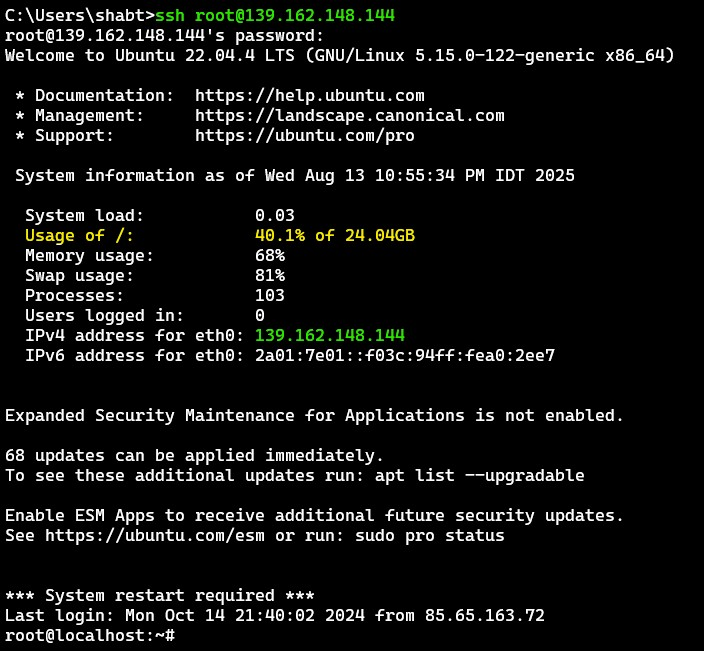
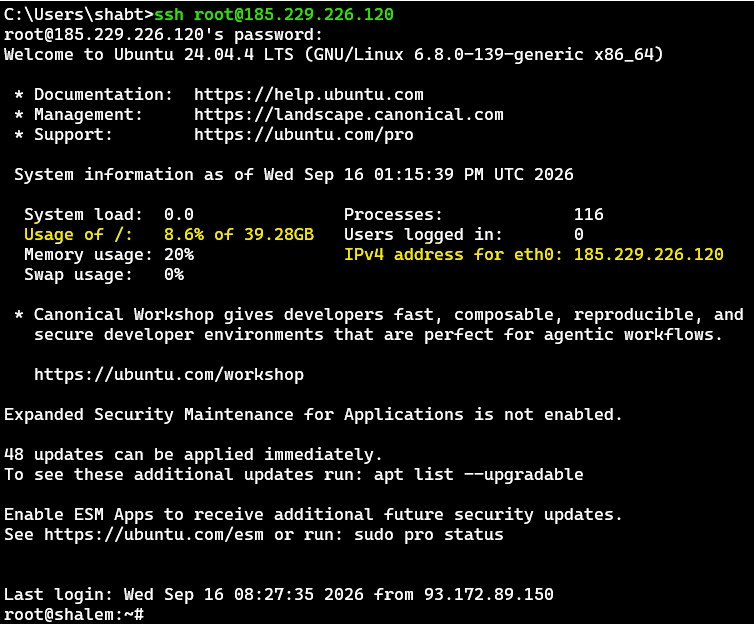
02-9/- 17:48

Changed region(s): [[0.0, 0.0, 1.0, 1.0]]

diff --git a/src/pages/DevOps/DevOpsComponents/D_LinuxPkg/B_ConnectServerSshSections/O1_ConnectWithSsh.tsx b/src/pages/DevOps/DevOpsComponents/D_LinuxPkg/B_ConnectServerSshSections/O1_ConnectWithSsh.tsx
@@ -3,7 +3,7 @@
 connect_to_server_ssh --> (DEVOPS)(LINUX)(connect with SSH)
 */
 import { IMG, MainChildArea } from "../../../../../components";
-import { SpanBlue, SpanGreen } from "../../../../../components/Highlight";
+import { Redtext, SpanGreen, SpanYellow } from "../../../../../components/Highlight";
 import linode_5 from "../../../../../assets/linode_5.jpg";
 import LinuxHighlight from "../../../../../components/Highlight/LinuxHighlight";
 
@@ -11,21 +11,23 @@ const O1_ConnectWithSsh = ({ anchor }: { anchor: string }) => {
   return (
     <MainChildArea anchor={anchor}>
       <div>
-        Once we created a server , now lets see how we can connect to it using <SpanBlue>SSH</SpanBlue> (<SpanGreen>Secure Shell protocol</SpanGreen>
+        Once we created a server , now lets see how we can connect to it using <Redtext>SSH</Redtext> (<SpanGreen>Secure Shell protocol</SpanGreen>
         ).
       </div>
       <ul className="my-4 ml-8 list-decimal">
-        <li className="my-1">Open admin CMD on windows</li>
-        <li className="my-1">Take the IP from linode server , type command</li>
+        <li className="my-1">
+          Take the server IP from <SpanYellow>KAMATERA</SpanYellow> Web site
+        </li>
+        <li className="my-1">Open CMD on windows, then type command</li>
         <LinuxHighlight bashCode={ssh_connect}></LinuxHighlight>
         <li className="my-1">
-          When I setup the linode , the user & password for root are as follows. thus I need to type the password below
+          When I setup create LINUX server on <SpanYellow>KAMATERA</SpanYellow> , these are username and password :
           <ul className="my-4 ml-8 list-disc">
             <li className="my-1">
-              username : <SpanBlue>root</SpanBlue>
+              username : <Redtext>root</Redtext>
             </li>
             <li className="my-1">
-              Password : <SpanBlue>Zaq1zaq1!zaq1</SpanBlue>
+              Password : <Redtext>shalem</Redtext>
             </li>
           </ul>
         </li>
@@ -36,4 +38,4 @@ const O1_ConnectWithSsh = ({ anchor }: { anchor: string }) => {
 };
 export default O1_ConnectWithSsh;
 
-const ssh_connect = `ssh root@139.162.148.144`;
+const ssh_connect = `ssh root@185.229.226.120`;

diff --git a/src/pages/DevOps/DevOpsComponents/D_LinuxPkg/A_CreateServerSections/O1_CreateLinodeServer.tsx b/src/pages/DevOps/DevOpsComponents/D_LinuxPkg/A_CreateServerSections/O1_CreateLinodeServer.tsx
@@ -2,16 +2,47 @@
 /devops/linux-server/create-server#create_linode_server
 create_linode_server --> (DEVOPS)(LINUX)(create server server)
 */
-import { IMG, MainChildArea } from "../../../../../components";
+import { IMG, Li, MainChildArea, ULdisc } from "../../../../../components";
 import linode_1 from "../../../../../assets/linode_1.jpg";
 import linode_2 from "../../../../../assets/linode_2.jpg";
 import linode_3 from "../../../../../assets/linode_3.jpg";
 import linode_4 from "../../../../../assets/linode_4.jpg";
-import { DivDoubleBorder, Span, SpanBlue, SpanGreen } from "../../../../../components/Highlight";
+import { DivDoubleBorder, Redtext, Span, SpanBlue, SpanGreen, SpanYellow } from "../../../../../components/Highlight";
 
 const O1_CreateLinodeServer = ({ anchor }: { anchor: string }) => {
   return (
     <MainChildArea anchor={anchor}>
+      <ULdisc>
+        <Li>
+          <SpanYellow>Linode</SpanYellow> is now know as <SpanYellow>Akami</SpanYellow>
+        </Li>
+        <Li>
+          Go to{" "}
+          <a className="tracking-wider text-blue-500" href="https://www.akamai.com/" target="_blank">
+            {" "}
+            https://www.akamai.com/
+          </a>
+        </Li>
+        <Li>
+          to Login use this url{" "}
+          <a className="tracking-wider text-blue-500" href="https://login.linode.com/login?" target="_blank">
+            https://login.linode.com/login
+          </a>
+        </Li>
+      </ULdisc>
+
+      <DivDoubleBorder>Linode Login Username/Password</DivDoubleBorder>
+      <ULdisc>
+        <Li>
+          <SpanYellow>username</SpanYellow> - <Redtext>sshalem</Redtext>
+        </Li>
+        <Li>
+          <SpanYellow>password</SpanYellow> - <Redtext>aa77aa80</Redtext>
+        </Li>
+      </ULdisc>
+
+      <DivDoubleBorder>Create Server</DivDoubleBorder>
+
       <div>Follow the steps:</div>
       <IMG img_name={linode_1} />
       <DivDoubleBorder>

diff --git a/src/pages/DevOps/DevOpsComponents/D_LinuxPkg/A_CreateServerSections/O2_CreateKamateraServer.tsx b/src/pages/DevOps/DevOpsComponents/D_LinuxPkg/A_CreateServerSections/O2_CreateKamateraServer.tsx
@@ -1,0 +1,52 @@
+/*
+ 
+
+*/
+import { Li, MainChildArea, ULdisc } from "../../../../../components";
+import { DivDoubleBorder, Redtext, SpanYellow } from "../../../../../components/Highlight";
+
+const O2_CreateKamateraServer = ({ anchor }: { anchor: string }) => {
+  return (
+    <MainChildArea anchor={anchor}>
+      <ULdisc>
+        <Li>
+          <SpanYellow>Linode</SpanYellow> is now know as <SpanYellow>Akami</SpanYellow>
+        </Li>
+        <Li>
+          Go to{" "}
+          <a className="tracking-wider text-blue-500" href="https://www.kamatera.com/he/" target="_blank">
+            {" "}
+            https://www.kamatera.com/he/
+          </a>
+        </Li>
+        <Li>
+          to Login use this url{" "}
+          <a className="tracking-wider text-blue-500" href="https://console.kamatera.com/login" target="_blank">
+            https://console.kamatera.com/login
+          </a>
+        </Li>
+      </ULdisc>
+
+      <DivDoubleBorder>Kamatera Login Username/Password</DivDoubleBorder>
+      <ULdisc>
+        <Li>
+          <SpanYellow>username</SpanYellow> - <Redtext>shabtay.shalem@gmail.com</Redtext>
+        </Li>
+        <Li>
+          <SpanYellow>password</SpanYellow> - <Redtext>aa77aa80</Redtext>
+        </Li>
+      </ULdisc>
+
+      <DivDoubleBorder>config LINUX Server root Password</DivDoubleBorder>
+      <ULdisc>
+        <Li>
+          <SpanYellow>username</SpanYellow> - <Redtext>root</Redtext> by default is't <SpanYellow>root</SpanYellow>
+        </Li>
+        <Li>
+          <SpanYellow>password</SpanYellow> - <Redtext>shalem</Redtext>
+        </Li>
+      </ULdisc>
+    </MainChildArea>
+  );
+};
+export default O2_CreateKamateraServer;

diff --git a/src/pages/DevOps/DevOpsComponents/D_LinuxPkg/A_CreateServerSections/CreateServerMain.tsx b/src/pages/DevOps/DevOpsComponents/D_LinuxPkg/A_CreateServerSections/CreateServerMain.tsx
@@ -1,20 +1,20 @@
 import { useEffect, useRef, useState } from "react";
 import { ContentMenu, Loading } from "../../../../../components";
 import O1_CreateLinodeServer from "./O1_CreateLinodeServer";
-import O0_AkamiLinodeIntro from "./O0_AkamiLinodeIntro";
+import O2_CreateKamateraServer from "./O2_CreateKamateraServer";
 
 // ===========================================
 // ==     content menu (title name)         ==
 // ===========================================
 
-const o0_AkamiLinodeIntro = "Intro Akami/Linode";
-const create_linode_server = "create_linode_server";
+const o1_create_linode_server = "1. create Linode server";
+const o2_CreateKamateraServer = "2. create Kamatera server";
 
 // ===========================================
 // == Update anchorList with  content menu  ==
 // ===========================================
 
-const anchorList: string[] = [o0_AkamiLinodeIntro, create_linode_server];
+const anchorList: string[] = [o1_create_linode_server, o2_CreateKamateraServer];
 
 // ============================================
 // ============================================
@@ -67,8 +67,8 @@ const CreateServerMain = () => {
         ulRef={ulRef}
       />
       {/* End Contents */}
-      <O0_AkamiLinodeIntro anchor={o0_AkamiLinodeIntro} />
-      <O1_CreateLinodeServer anchor={create_linode_server} />
+      <O1_CreateLinodeServer anchor={o1_create_linode_server} />
+      <O2_CreateKamateraServer anchor={o2_CreateKamateraServer} />
       <div className="my-8 h-4">{/* {this div is only for dividing} */}</div>
     </section>
   );

diff --git a/src/pages/DevOps/DropDevOps/DropDownLinux.tsx b/src/pages/DevOps/DropDevOps/DropDownLinux.tsx
@@ -36,14 +36,14 @@ const DropDownLinux = () => {
 
   return (
     <section>
-      <SideDropDownTopic showList={showList} handleOpenList={handleOpenList} internalLink="/devops/linux-server" topicName="Linux (Linode Akami)" />
+      <SideDropDownTopic showList={showList} handleOpenList={handleOpenList} internalLink="/devops/linux-server" topicName="Linux server" />
 
       <div
         style={showList ? { height: `${listHeight}px` } : { height: "0px" }}
         className={`overflow-hidden bg-white transition-[height] duration-100 ease-in-out`}
         ref={divRef}
       >
-        <SideDropdownLink sideDropDownNavName="1. create linode server" internalLink="/devops/linux-server/create-server" />
+        <SideDropdownLink sideDropDownNavName="1. create server" internalLink="/devops/linux-server/create-server" />
         <SideDropdownLink sideDropDownNavName="2. connect with SSH" internalLink="/devops/linux-server/connect-with-ssh" />
         <SideDropdownLink sideDropDownNavName="3. connect with FileZilla" internalLink="/devops/linux-server/connect-with-filezilla" />
         <SideDropdownLink sideDropDownNavName="4. Linux server setup" internalLink="/devops/linux-server/setup-server" />

diff --git a/src/pages/DevOps/DevOpsComponents/D_LinuxPkg/B_ConnectServerSshSections/O2_IssueWithSshConnectionTimeout.tsx b/src/pages/DevOps/DevOpsComponents/D_LinuxPkg/B_ConnectServerSshSections/O2_IssueWithSshConnectionTimeout.tsx
@@ -3,15 +3,15 @@
 ssh_connection_timeout_issue --> (DEVOPS)(LINUX)(connect with SSH)
 */
 import { IMG, MainChildArea } from "../../../../../components";
-import { SpanBlue } from "../../../../../components/Highlight";
+import { SpanYellow } from "../../../../../components/Highlight";
 import linode_6 from "../../../../../assets/linode_6.jpg";
 
 const O2_IssueWithSshConnectionTimeout = ({ anchor }: { anchor: string }) => {
   return (
     <MainChildArea anchor={anchor}>
       <div>
-        When I tried to connect with <SpanBlue>SSH</SpanBlue> via home Lenovo laptop (from Media Tech) to Linode server, I got connection refues on
-        port 22
+        When I tried to connect with <SpanYellow>SSH</SpanYellow> via home Lenovo laptop (from Media Tech) to Linode server, I got connection refues
+        on port 22
       </div>
       <IMG img_name={linode_6}></IMG>
       Maybe this issue occured on Meia Texh because , it is block by thier firewall

diff --git a/src/pages/DevOps/DevOpsComponents/D_LinuxPkg/B_ConnectServerSshSections/ConnectToServerSshMain.tsx b/src/pages/DevOps/DevOpsComponents/D_LinuxPkg/B_ConnectServerSshSections/ConnectToServerSshMain.tsx
@@ -7,8 +7,8 @@ import O2_IssueWithSshConnectionTimeout from "./O2_IssueWithSshConnectionTimeout
 // ==     content menu (title name)         ==
 // ===========================================
 
-const connect_to_server_ssh = "connect_to_server_ssh";
-const ssh_connection_timeout_issue = "ssh_connection_timeout_issue";
+const connect_to_server_ssh = "1. ssh to server";
+const ssh_connection_timeout_issue = "2. ssh_connection_timeout_issue";
 
 // ===========================================
 // == Update anchorList with  content menu  ==
